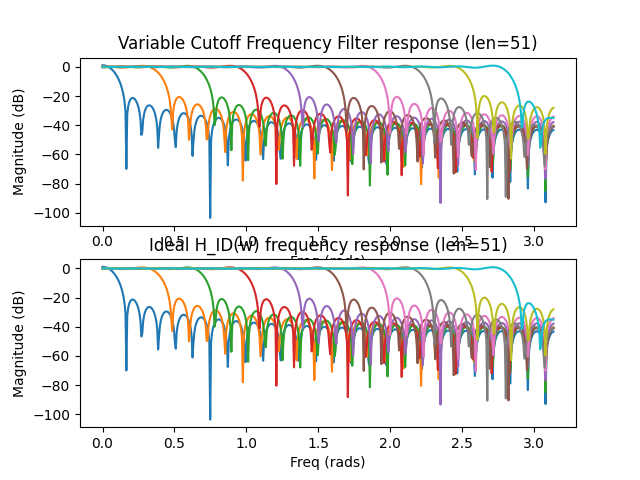
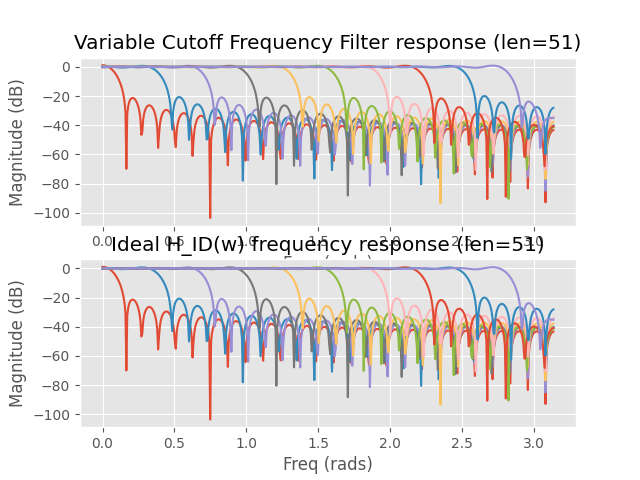
Format and documentation

diff --git a/autowah/variable_cutoff_filter.py b/autowah/variable_cutoff_filter.py
@@ -1,28 +1,37 @@
 from scipy import signal
 import numpy as np
 
+
 class VariableCutoffFilter:
     """
+    Variable Cutoff Frequency Low Pass FIR filter.
+
+    References:
+        - [1] Petri Jarske, Yrjö Neuvo, Sanjit K. Mitra, A simple approach to the design of linear phase fir digital
+          filters with variable characteristics, Signal Processing, Volume 14, Issue 4, 1988, Pages 313-326,
+          ISSN 0165-1684, https://doi.org/10.1016/0165-1684(88)90090-4.
     """
 
-    def __init__(self, fs: float=None, filter_len=51):
+    def __init__(self, filter_len=51, fs: float = None):
         """
-        :param starting_bandwidth_Hz: Cutoff frequency to use in the lowpass filter stage
-        :param fs: Sample rate/frequency in Hz
+        :param fs: Sample rate/frequency in Hz, if this is None then we assume 0-PI normalized inputs.
+        :param filter_len: 
         """
 
         self.fs = fs
 
         self._filter_len = filter_len
+
+        # Calculate the N of positive non-zero terms in the filter. For odd the filter
+        # length is 2*N + 1 (-N <= n <= N). The additional point is required to contain
+        # the center point (n = 0).
         self._is_odd = filter_len % 2
         if self._is_odd:
             self._N = int((self._filter_len - 1) / 2)
-            self._w_co = 2 * np.pi * (0.25 + .5 / (filter_len))
+            self._w_co = 2 * np.pi * (0.25 + 0.5 / (filter_len))
         else:
             # TODO: implement the even case
             raise NotImplementedError("Even case is not implemented")
-            self._N = int((self._filter_len) / 2)
-            self._w_co = 0.5 * np.pi
 
         self.reset()
 
@@ -31,10 +40,10 @@ class VariableCutoffFilter:
         self._d = 0
         self._is_init = False
         self._z = None
-  
+
     def run(self, u, fc):
         """
-    fc is converted to scale based on what fs is set to
+        fc is converted to scale based on what fs is set to
         """
         # Convert u into an array if it is a scalar value
         if np.isscalar(u):
@@ -45,32 +54,55 @@ class VariableCutoffFilter:
             fc = np.array([fc] * len(u), dtype=np.float32)
 
         # Normalize omega_c between 0 and pi (to obey nyquist)
-        if self.fs:        
-            omega_c = 2*np.pi*fc / self.fs
+        if self.fs:
+            omega_c = 2 * np.pi * fc / self.fs
         else:
             omega_c = fc
-        return [self._step([x], self._compute_coefficients(w)) for x, w in zip(u, omega_c)]
 
-    def _step(self, u, h0):
+        return np.array(
+            [
+                self._step(x, self._compute_coefficients(w))
+                for x, w in zip(u, omega_c)
+            ],
+            dtype=np.float32,
+        )
+
+    def _step(self, u, b):
+        """
+        Take one step forward in time with a given set of co-efficients for the filter.
+        This handles keeping all of the filter state consistent between steps to make sure
+        that the coefficients and parameters can change and still effect the output signal.
+
+        :param u: a scalar value to step the filter forward with
+        :param b: coefficients for the FIR filter
+        :return   a filtered scalar value
+        """
         if not self._is_init:
-            self._z = signal.lfilter_zi(h0, 1) * u[0]
+            self._z = signal.lfilter_zi(b, 1) * u
             self._is_init = True
 
-        y, self._z = signal.lfilter(h0, [1.0], u, zi = self._z)
+        y, self._z = signal.lfilter(b, [1.0], [u], zi=self._z)
         return y[0]
 
     def _compute_coefficients(self, omega_c):
-        h0 = [c * np.sin(omega_c*n) if n != 0 else c*omega_c for c, n in zip(self.coefficients, self.ns)]
-        return np.array(h0, dtype=np.float32)
+        b = [
+            c * np.sin(omega_c * n) if n != 0 else c * omega_c
+            for c, n in zip(self.coefficients, self.ns)
+        ]
+        return np.array(b, dtype=np.float32)
 
     def _compute_static_coefficients(self):
         if self._is_odd:
-            self.ns = range(-1*self._N, self._N+1)
+            self.ns = range(-1 * self._N, self._N + 1)
             # This is the "Ideal LPF"
-            h_M0 =lambda n: (self._w_co / np.pi) * np.sinc(self._w_co * n / np.pi)
+            h_M0 = lambda n: (self._w_co / np.pi) * np.sinc(self._w_co * n / np.pi)
 
             # Calculate a known set of coefficients for the FIR filter design
-            self.coefficients = np.array([h_M0(n) * 1/np.sin(self._w_co * n) if n != 0 else 1/np.pi for n in self.ns])
+            self.coefficients = np.array(
+                [
+                    h_M0(n) * 1 / np.sin(self._w_co * n) if n != 0 else 1 / np.pi
+                    for n in self.ns
+                ]
+            )
         else:
             raise NotImplementedError("Even case is not implemented")
-

diff --git a/autowah/console.py b/autowah/console.py
@@ -1,15 +1,10 @@
-from email.mime import audio
-from numpy import linspace
 import pyaudio
 import numpy as np
 import time
-import scipy.signal
 from numpy_ringbuffer import RingBuffer
 
-from collections import deque
 
 from .envelope_follower import EnvelopeFollower
-import queue
 import matplotlib.pyplot as plt
 
 # https://www.geeksforgeeks.org/check-data-type-in-numpy/
@@ -25,8 +20,8 @@ def run():
 
     CHANNELS = 1
     RATE = 44100
-    CHUNK = 1024*4
-    HISTORY_LENGTH = CHUNK*20
+    CHUNK = 1024 * 4
+    HISTORY_LENGTH = CHUNK * 20
     ENVELOPE_FOLLOWER_FC = 30
     envelope_follower = EnvelopeFollower(ENVELOPE_FOLLOWER_FC, RATE)
 
@@ -35,8 +30,8 @@ def run():
         "envelope": RingBuffer(capacity=HISTORY_LENGTH),
     }
 
-    for signal in scope.values():
-        signal.extend(np.zeros(signal.maxlen))
+    for sig in scope.values():
+        sig.extend(np.zeros(sig.maxlen))
 
     def callback(in_data, frame_count, time_info, flag):
         # using Numpy to convert to array for processing
@@ -45,43 +40,44 @@ def run():
         global state_vector
 
         envelope = envelope_follower.run(audio_data)
-        
+
         scope["in"].extend(audio_data)
         scope["envelope"].extend(envelope)
 
         return audio_data, pyaudio.paContinue
 
-    stream = p.open(format=pyaudio.paFloat32,
-                    channels=CHANNELS,
-                    rate=RATE,
-                    frames_per_buffer=int(CHUNK),
-                    output=True,
-                    input=True,
-                    stream_callback=callback)
+    stream = p.open(
+        format=pyaudio.paFloat32,
+        channels=CHANNELS,
+        rate=RATE,
+        frames_per_buffer=int(CHUNK),
+        output=True,
+        input=True,
+        stream_callback=callback,
+    )
 
     stream.start_stream()
-    plt.style.use('ggplot')
+    plt.style.use("ggplot")
 
     while stream.is_active():
         fig = plt.figure()
         ax1: plt.Axes = fig.add_subplot(211)
         ax2 = fig.add_subplot(212, sharex=ax1)
-        ax1.set_ylim((-1,1))
-        ax2.set_ylim((-1,1))
+        ax1.set_ylim((-1, 1))
+        ax2.set_ylim((-1, 1))
         plt.ion()
 
-
-        line1, = ax1.plot(np.array(scope["in"]))
-        line2, = ax2.plot(np.array(scope["envelope"]))
+        (line1,) = ax1.plot(np.array(scope["in"]))
+        (line2,) = ax2.plot(np.array(scope["envelope"]))
 
         plt.show()
 
         # pyplot.plot()
-        while True:  
+        while True:
             line1.set_ydata(np.array(scope["in"]))
             line2.set_ydata(np.array(scope["envelope"]))
             fig.canvas.flush_events()
-            time.sleep(.01)
+            time.sleep(0.01)
 
         time.sleep(20)
         stream.stop_stream()

diff --git a/autowah/envelope_follower.py b/autowah/envelope_follower.py
@@ -1,11 +1,11 @@
 from scipy import signal
 import numpy as np
 
-class EnvelopeFollower:
-    """
-    """
 
-    def __init__(self, bandwidth_Hz: float=100, sample_rate_Hz: float=44100):
+class EnvelopeFollower:
+    """ """
+
+    def __init__(self, bandwidth_Hz: float = 100, sample_rate_Hz: float = 44100):
         """
         :param bandwidth_Hz: Cutoff frequency to use in the lowpass filter stage
         :param sample_rate_Hz: Sample rate/frequency in Hz
@@ -21,7 +21,7 @@ class EnvelopeFollower:
         # Store these parameters for getters later
         self._sample_rate_Hz = sample_rate_Hz
         self._bandwidth_Hz = bandwidth_Hz
-        
+
         # Setup and then initialize the state vector
         self._z = None
         self._is_init = False
@@ -36,7 +36,7 @@ class EnvelopeFollower:
 
     def run(self, x):
         """
-                # https://www.dsprelated.com/showarticle/938.php  Asynchronous Real Square-Law Envelope Detection
+        # https://www.dsprelated.com/showarticle/938.php  Asynchronous Real Square-Law Envelope Detection
 
         """
         # Step 1: take the absolute value of the input signal
@@ -44,7 +44,7 @@ class EnvelopeFollower:
 
         if not self._is_init:
             self._is_init = True
-            self._z = self._z*x[0]
+            self._z = self._z * x[0]
 
         # Step 2: apply a low pass filter to find the envelope of the signal
         y, self._z = signal.lfilter(self._b, self._a, abs_x, zi=self._z)
@@ -53,7 +53,7 @@ class EnvelopeFollower:
     @property
     def sample_rate_Hz(self):
         return self._sample_rate_Hz
-    
+
     @property
     def bandwidth_Hz(self):
         return self._bandwidth_Hz

diff --git a/tests/test_test.py b/tests/test_test.py
@@ -5,10 +5,11 @@ from scipy import signal
 
 import pytest
 
+plt.style.use('ggplot')
 
 def test_autowah_variable_cutoff_filter_even_lengths_not_supported():
     with pytest.raises(NotImplementedError):
-        vcf = VariableCutoffFilter(filter_len=100)
+         VariableCutoffFilter(filter_len=100)
 
 def test_autowah_variable_cutoff_filter_coefficients():
     filter_len = 51
